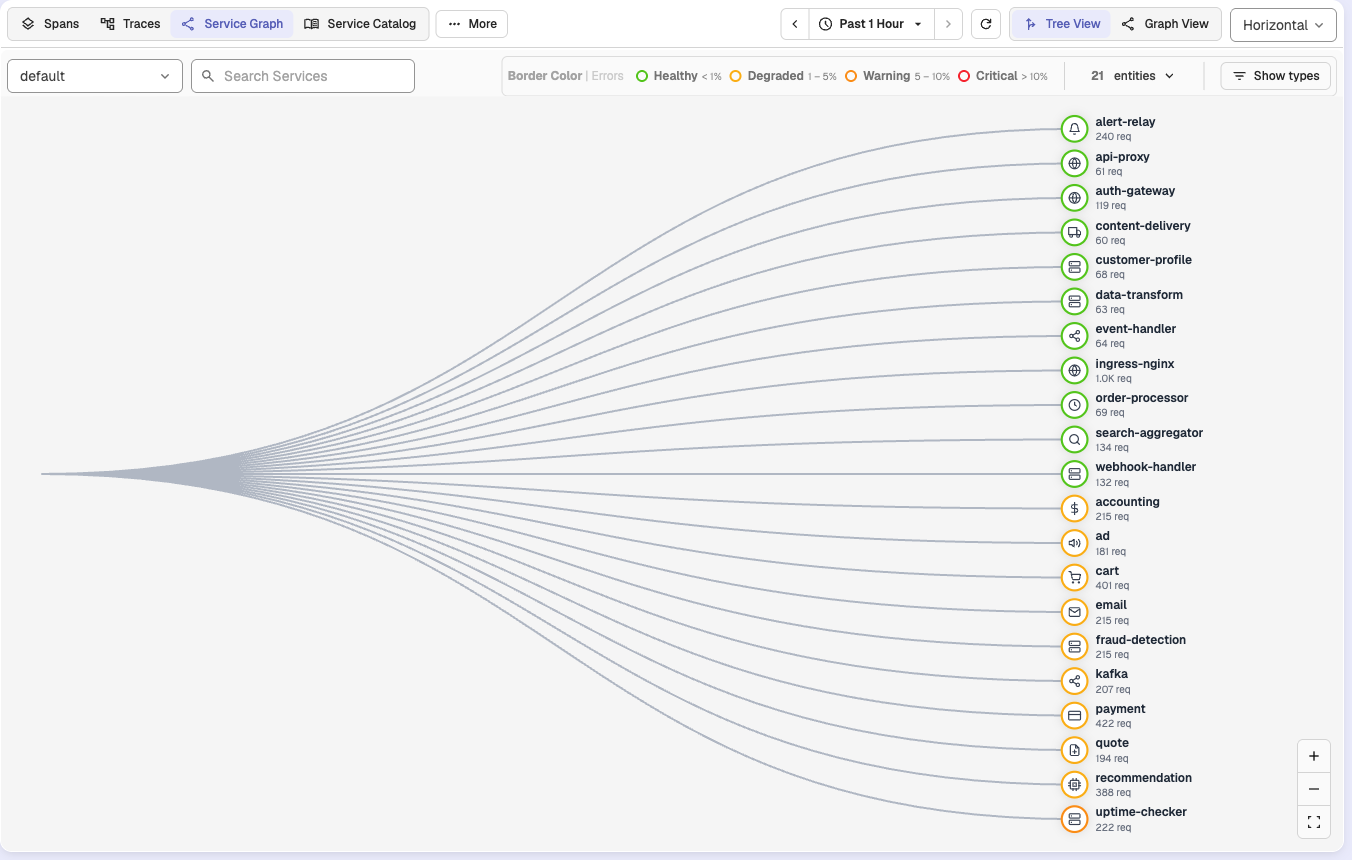
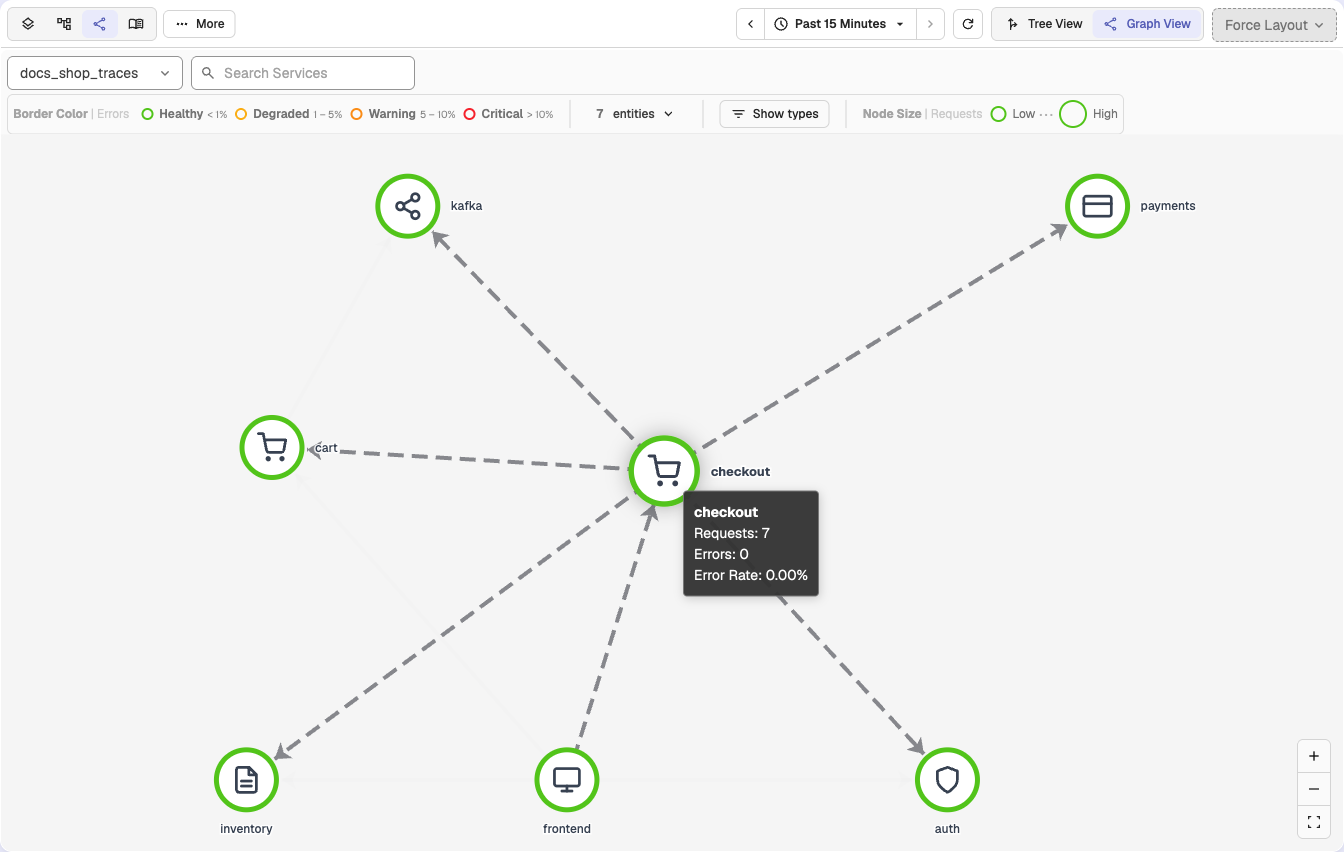
docs: new screenshots for distributed-tracing

diff --git a/docs/features/distributed-tracing.md b/docs/features/distributed-tracing.md
@@ -61,7 +61,7 @@ Distributed tracing in OpenObserve allows you to visualize the complete journey 
 
 - **Service Graph** (Enterprise): See how your services call each other, with dependencies, throughput and error rates
 
-![Traces Service Graph](../images/features/traces-service-map-v2.png)
+![Service Graph in Graph View with edges between the shop services and a tooltip showing requests, errors and error rate for checkout](../images/features/traces-service-map-v2.png)
 
 - **Service Catalog**: Every service sending traces, with latency, throughput and error rate
 
